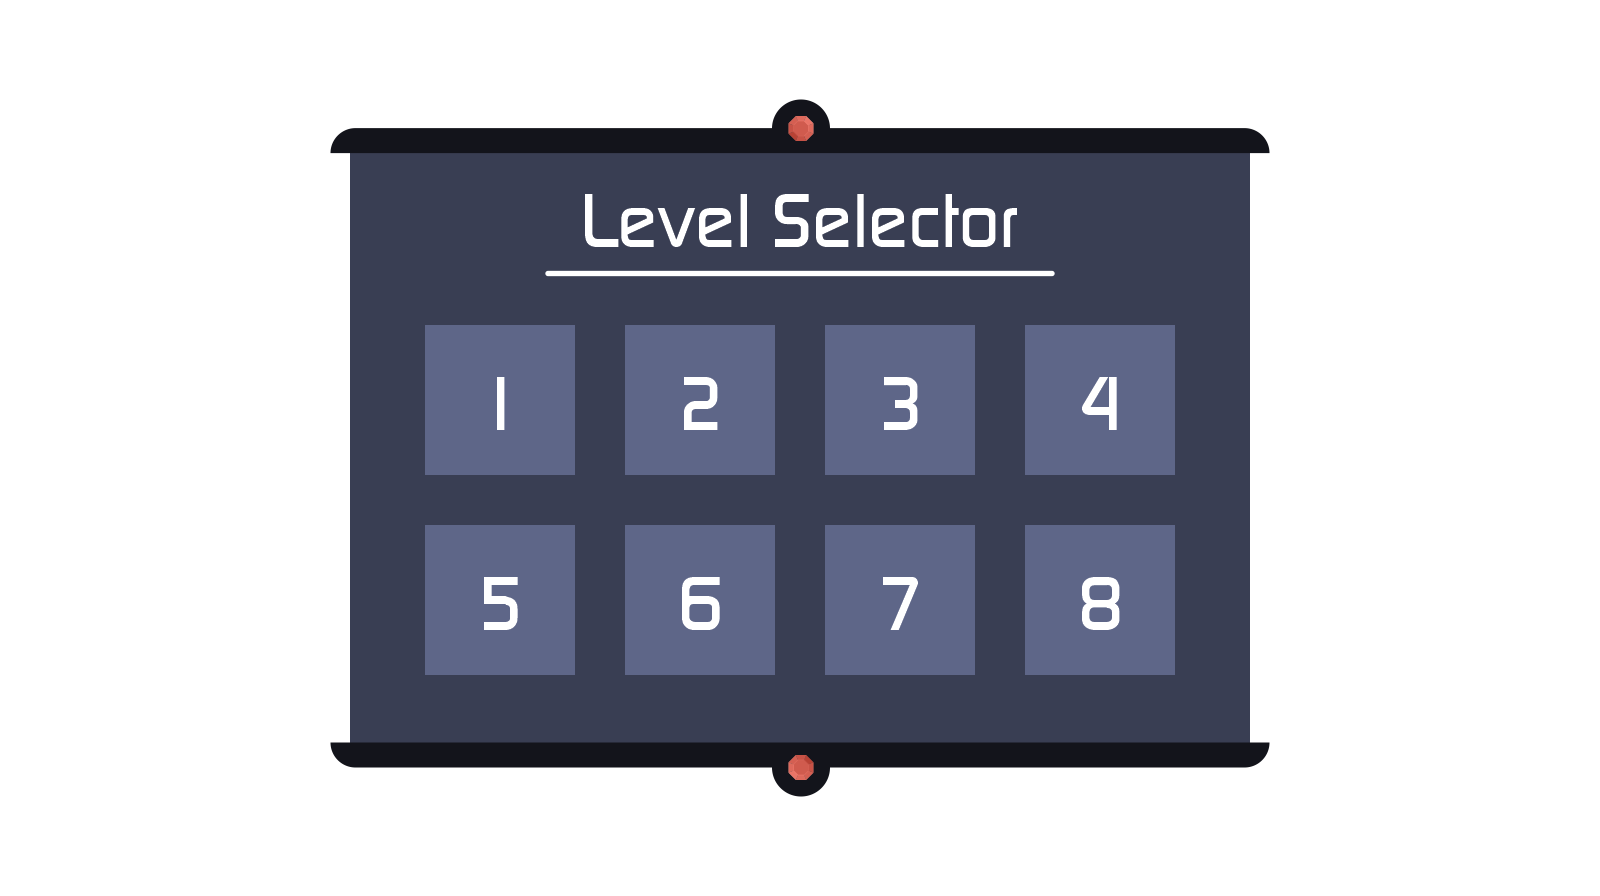
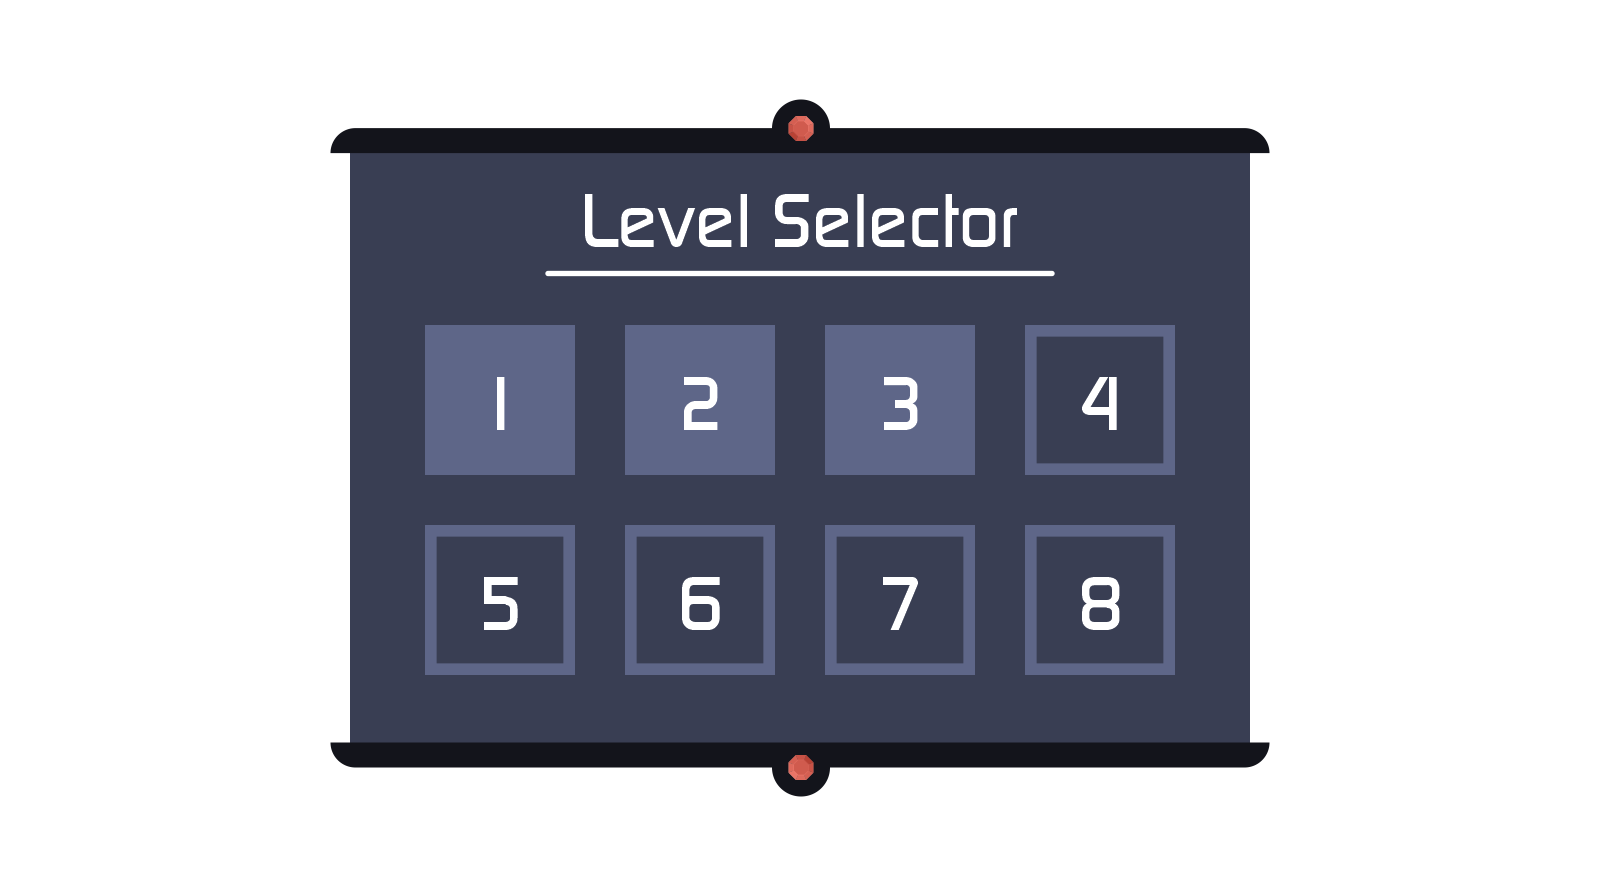
Removed several levels

Changed region(s): [[0.25, 0.5938, 0.75, 0.75], [0.625, 0.375, 0.75, 0.5312]]

diff --git a/CaptainCPA/CaptainCPA/Scenes/LevelSelectScene.cs b/CaptainCPA/CaptainCPA/Scenes/LevelSelectScene.cs
@@ -56,7 +56,7 @@ namespace CaptainCPA
 			levelSelectorPositions.Add(new Vector2(1020, 520));
 
 			selectedIndex = 0;
-			levels = 8;
+			levels = 3;
 		}
 
 		/// <summary>
@@ -104,9 +104,7 @@ namespace CaptainCPA
 		{
 			spriteBatch.Begin();
 			spriteBatch.Draw(menuImage, Vector2.Zero, Color.White);
-
 			spriteBatch.Draw(levelSelector, levelSelectorPositions[selectedIndex], Color.White);
-
 			spriteBatch.End();
 
 			base.Draw(gameTime);
